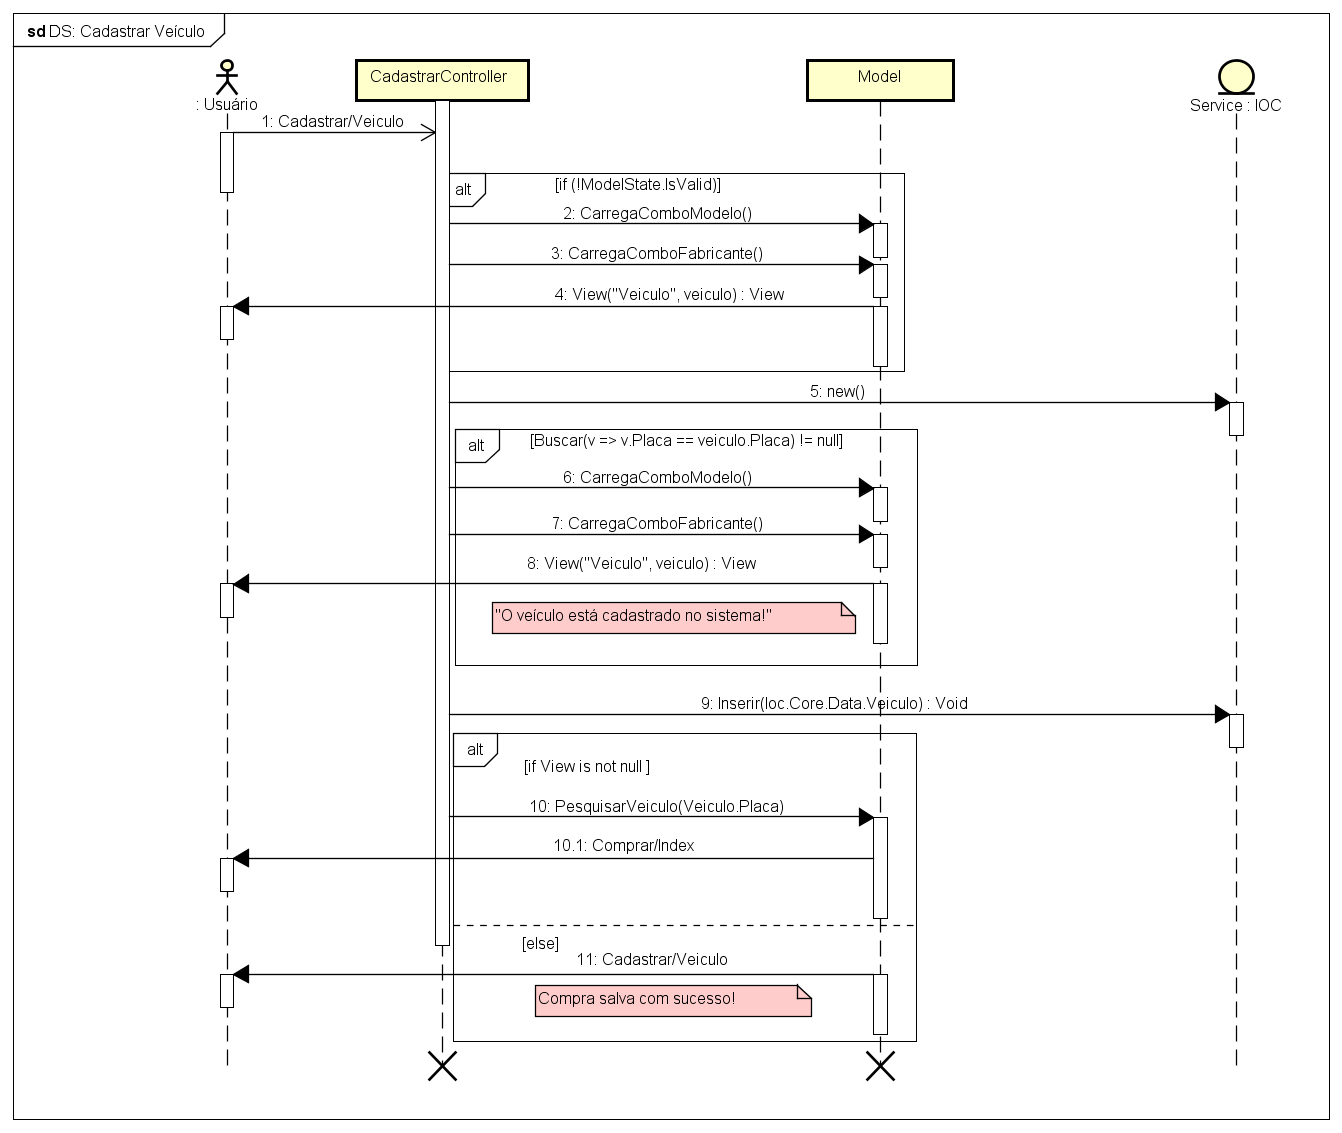
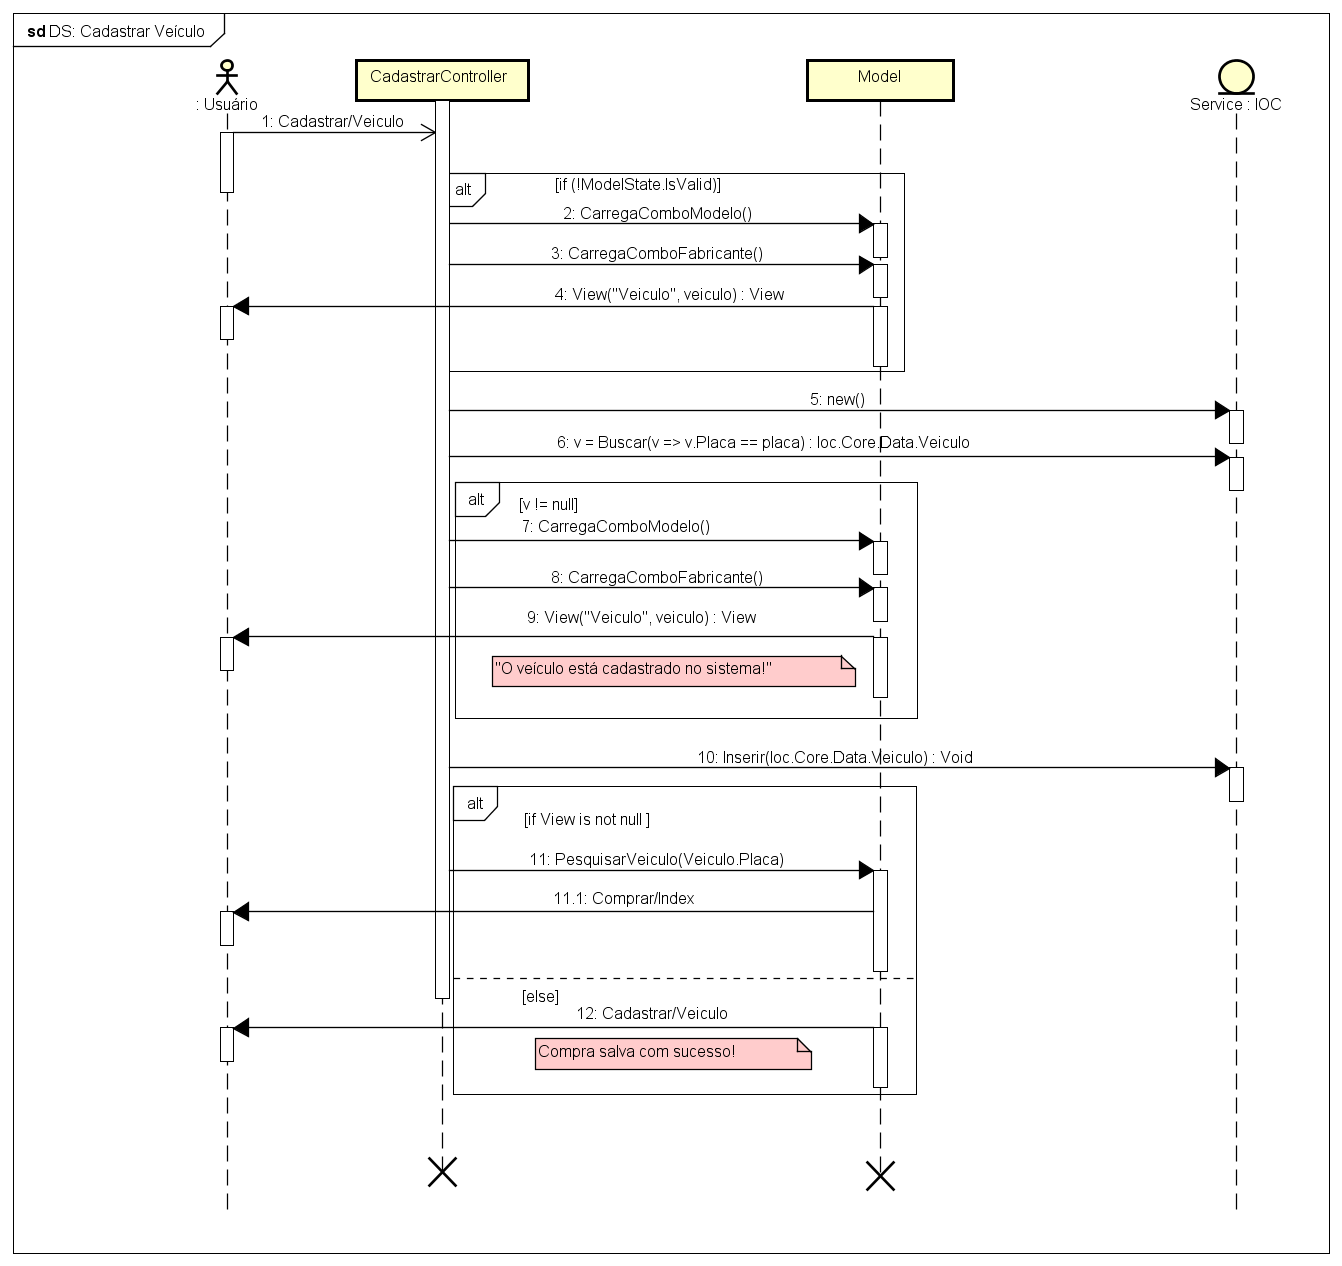
Correção do diagrama de sequencia

diff --git a/Veiculos.Web/Controllers/CadastrarController.cs b/Veiculos.Web/Controllers/CadastrarController.cs
@@ -58,9 +58,11 @@ namespace Veiculos.Web.Controllers
                 return View("Veiculo", veiculo);
             }
 
-            Veiculos.Ioc.Service.Service<Ioc.Core.Data.Veiculo> serviceVeiculo = new Ioc.Service.Service<Ioc.Core.Data.Veiculo>();
+            var serviceVeiculo = new Ioc.Service.Service<Ioc.Core.Data.Veiculo>();
 
-            if (serviceVeiculo.Buscar(v => v.Placa == veiculo.Placa) != null)
+            var v = serviceVeiculo.Buscar(f => f.Placa == veiculo.Placa);
+
+            if (v != null)
             {
                 this.CarregaComboModelo();
                 this.CarregaComboFabricante();
